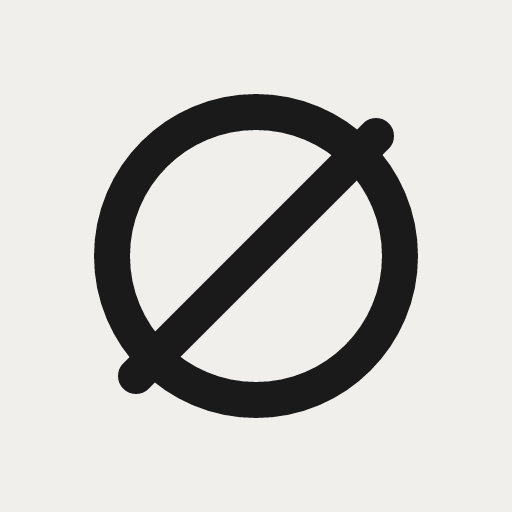
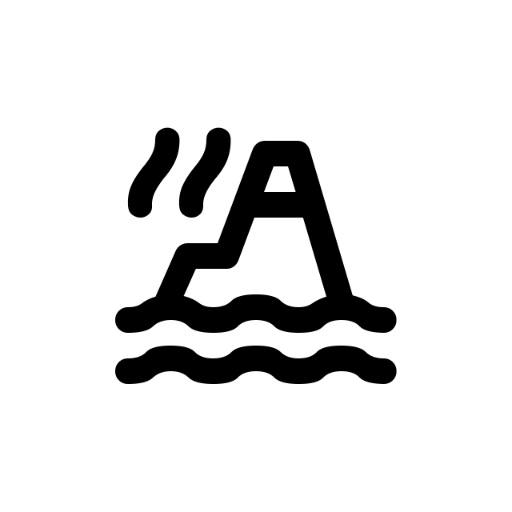
chore(web): migrate brand assets from SVG to PNG/ICO
Replace inline SVG logo and favicons with light/dark raster assets, add dedicated maskable PWA icons, and sync favicon switching with theme changes.

Changed region(s): [[0.1562, 0.1562, 0.8438, 0.8438]]

diff --git a/web/src/app/Brand.tsx b/web/src/app/Brand.tsx
@@ -1,16 +1,11 @@
 import { cn } from "@/lib/utils";
 
 export function BrandMark({ className }: { className?: string }) {
+  const imgClass = cn("size-5 shrink-0 rounded-sm object-contain", className);
   return (
-    <svg
-      viewBox="0 0 32 32"
-      className={cn("size-5 shrink-0", className)}
-      aria-hidden="true"
-    >
-      <g fill="none" stroke="currentColor" strokeWidth="2.25" strokeLinecap="round">
-        <circle cx="16" cy="16" r="9" />
-        <line x1="8.5" y1="23.5" x2="23.5" y2="8.5" />
-      </g>
-    </svg>
+    <>
+      <img src="/logo.png" alt="" className={cn(imgClass, "dark:hidden")} aria-hidden="true" />
+      <img src="/logo-dark.png" alt="" className={cn(imgClass, "hidden dark:block")} aria-hidden="true" />
+    </>
   );
 }

diff --git a/web/index.html b/web/index.html
@@ -2,9 +2,9 @@
 <html lang="zh-CN">
   <head>
     <meta charset="UTF-8" />
-    <link rel="icon" href="/favicon.svg" type="image/svg+xml" media="(prefers-color-scheme: light)" />
-    <link rel="icon" href="/favicon-dark.svg" type="image/svg+xml" media="(prefers-color-scheme: dark)" />
-    <link rel="icon" href="/favicon.svg" type="image/svg+xml" id="apod-favicon" />
+    <link rel="icon" href="/favicon.ico" sizes="any" media="(prefers-color-scheme: light)" />
+    <link rel="icon" href="/favicon-dark.ico" sizes="any" media="(prefers-color-scheme: dark)" />
+    <link rel="icon" href="/favicon.ico" sizes="any" id="apod-favicon" />
     <link rel="apple-touch-icon" href="/apple-touch-icon.png" />
     <meta name="viewport" content="width=device-width, initial-scale=1.0" />
     <meta name="theme-color" content="#ffffff" media="(prefers-color-scheme: light)" />
@@ -22,7 +22,7 @@
             window.matchMedia("(prefers-color-scheme: dark)").matches);
         if (dark) document.documentElement.classList.add("dark");
         var favicon = document.getElementById("apod-favicon");
-        if (favicon) favicon.setAttribute("href", dark ? "/favicon-dark.svg" : "/favicon.svg");
+        if (favicon) favicon.setAttribute("href", dark ? "/favicon-dark.ico" : "/favicon.ico");
       })();
     </script>
   </head>

diff --git a/web/vite.config.ts b/web/vite.config.ts
@@ -13,7 +13,7 @@ export default defineConfig({
     tailwindcss(),
     VitePWA({
       registerType: 'autoUpdate',
-      includeAssets: ['favicon.svg', 'favicon-dark.svg', 'logo.svg', 'apple-touch-icon.png', 'pwa-192.png', 'pwa-512.png'],
+      includeAssets: ['favicon.ico', 'favicon-dark.ico', 'logo.png', 'logo-dark.png', 'apple-touch-icon.png', 'apple-touch-icon-dark.png', 'pwa-192.png', 'pwa-512.png', 'pwa-192-maskable.png', 'pwa-512-maskable.png'],
       manifest: {
         name: 'AgentPod',
         short_name: 'AgentPod',
@@ -27,7 +27,8 @@ export default defineConfig({
         icons: [
           { src: 'pwa-192.png', sizes: '192x192', type: 'image/png' },
           { src: 'pwa-512.png', sizes: '512x512', type: 'image/png' },
-          { src: 'pwa-512.png', sizes: '512x512', type: 'image/png', purpose: 'maskable' },
+          { src: 'pwa-192-maskable.png', sizes: '192x192', type: 'image/png', purpose: 'maskable' },
+          { src: 'pwa-512-maskable.png', sizes: '512x512', type: 'image/png', purpose: 'maskable' },
         ],
       },
       workbox: {

diff --git a/web/src/app/theme.tsx b/web/src/app/theme.tsx
@@ -24,6 +24,8 @@ function resolveDark(pref: ThemePreference): boolean {
 export function applyTheme(pref: ThemePreference) {
   const dark = resolveDark(pref);
   document.documentElement.classList.toggle("dark", dark);
+  const favicon = document.getElementById("apod-favicon") as HTMLLinkElement | null;
+  if (favicon) favicon.href = dark ? "/favicon-dark.ico" : "/favicon.ico";
 }
 
 function loadPreference(): ThemePreference {